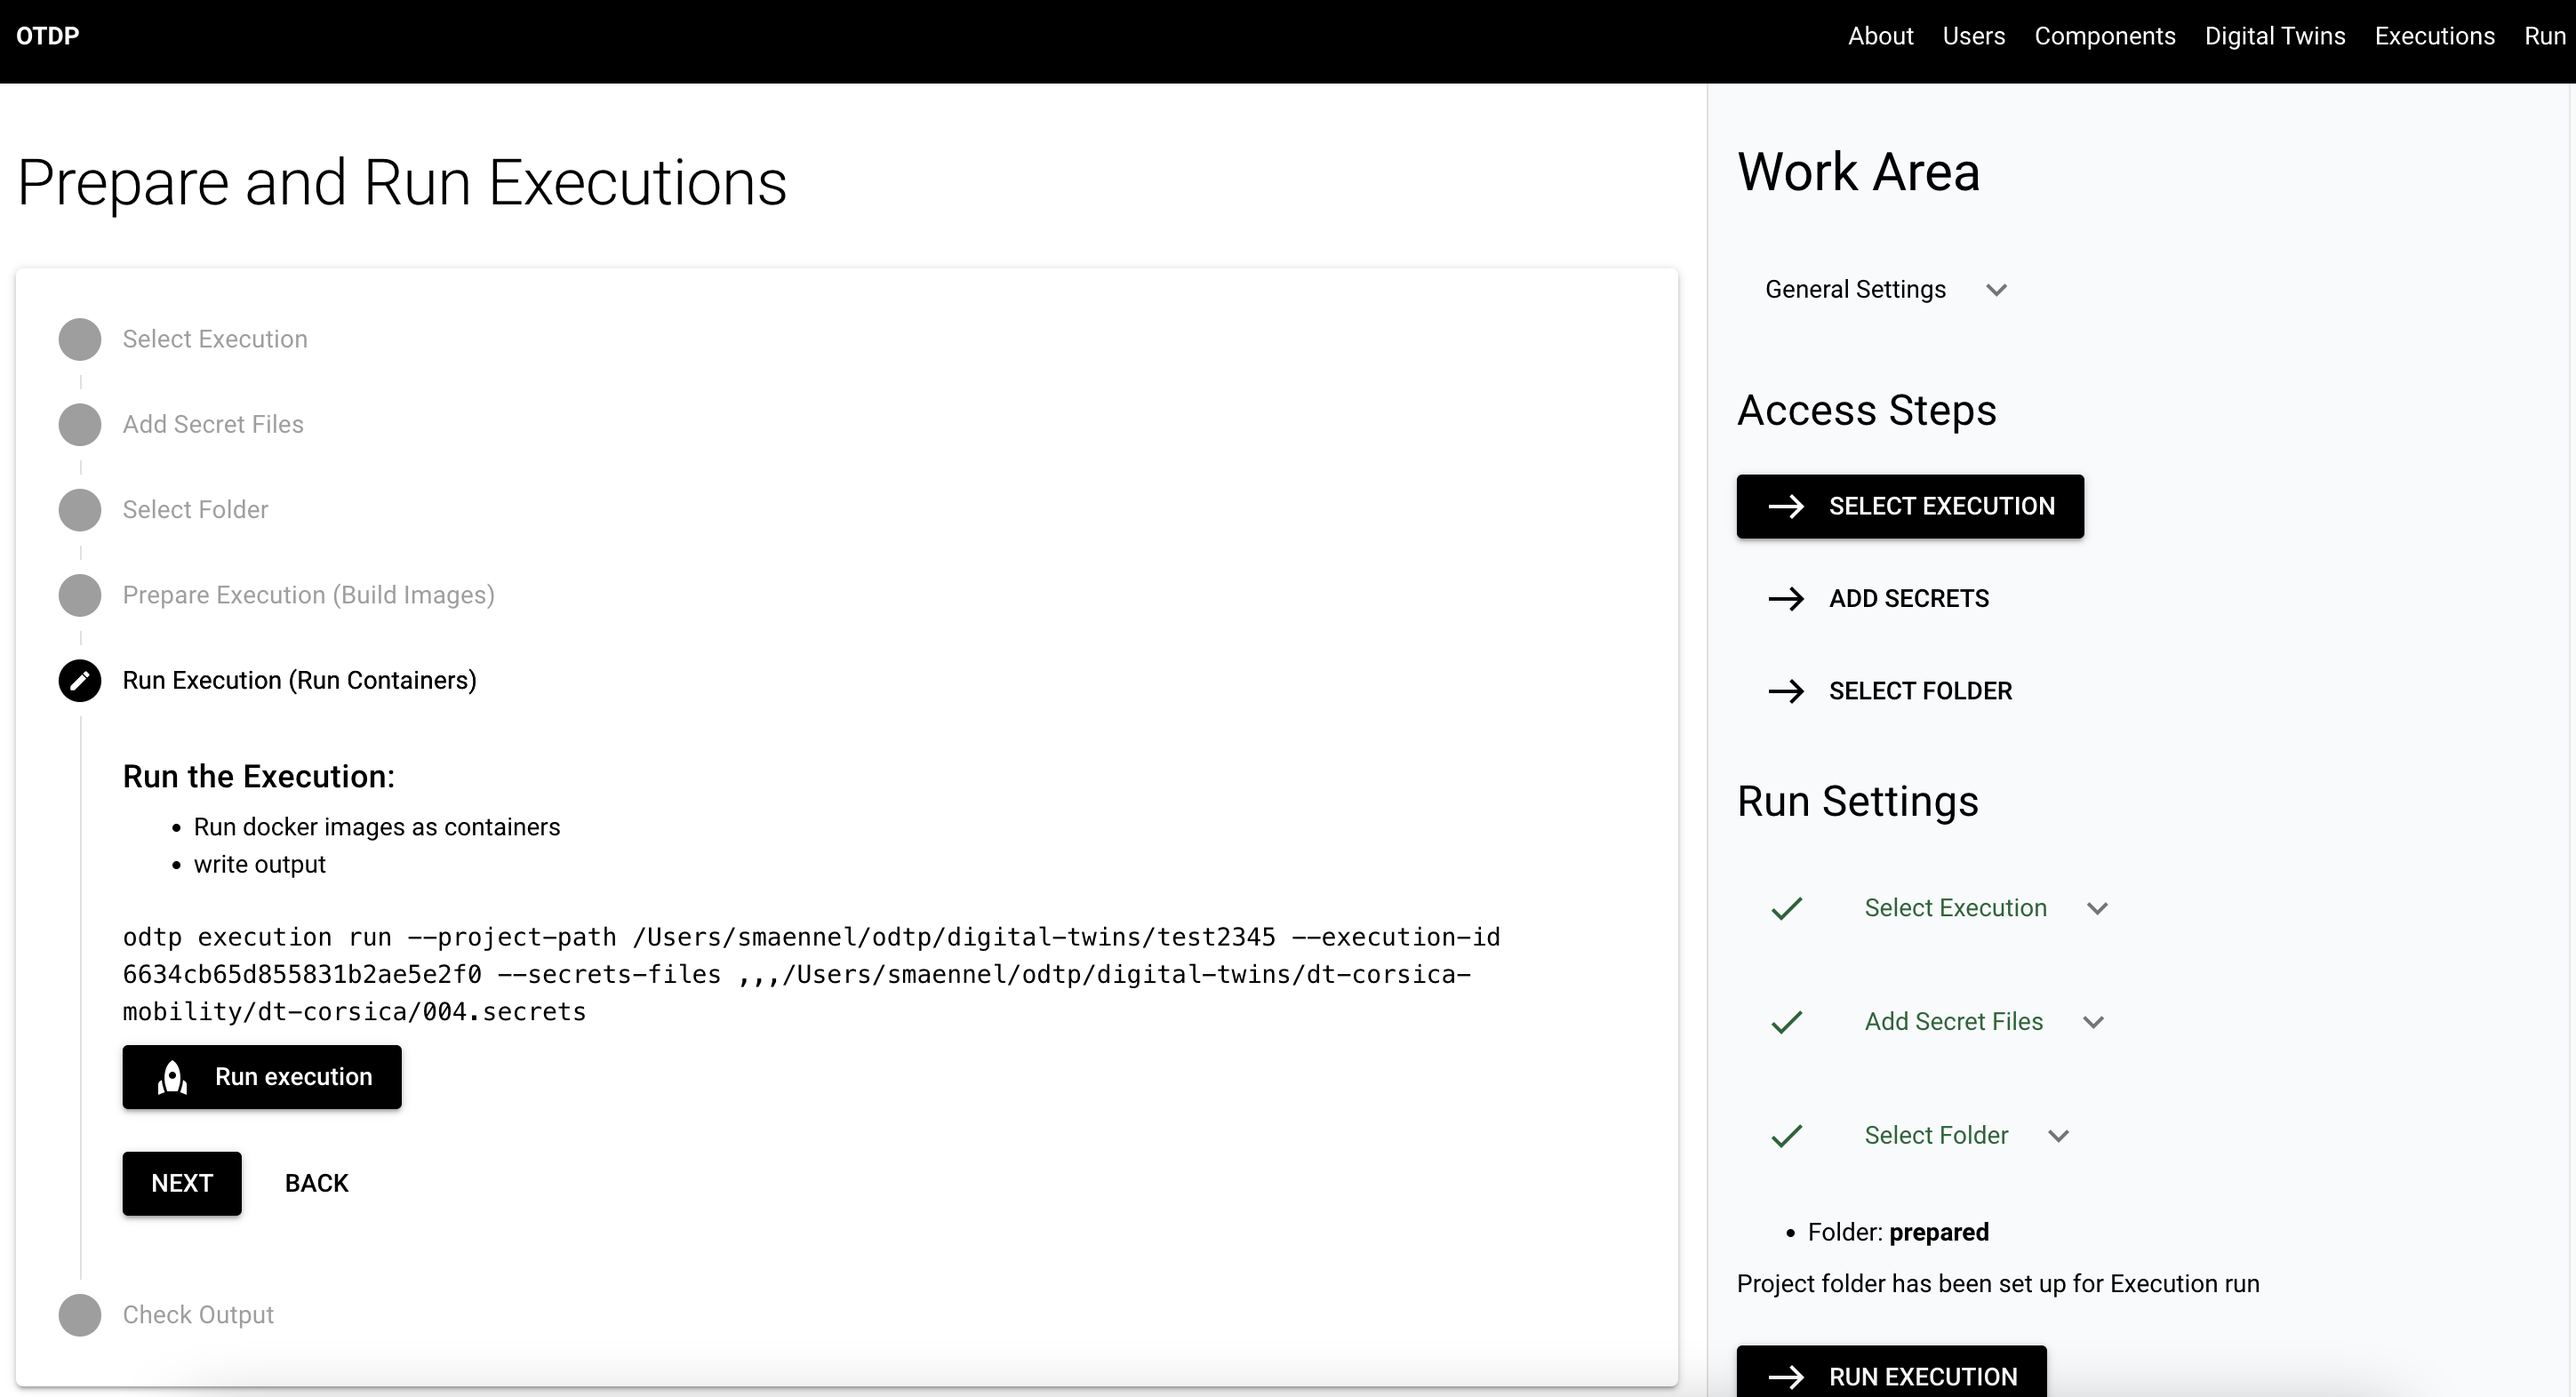
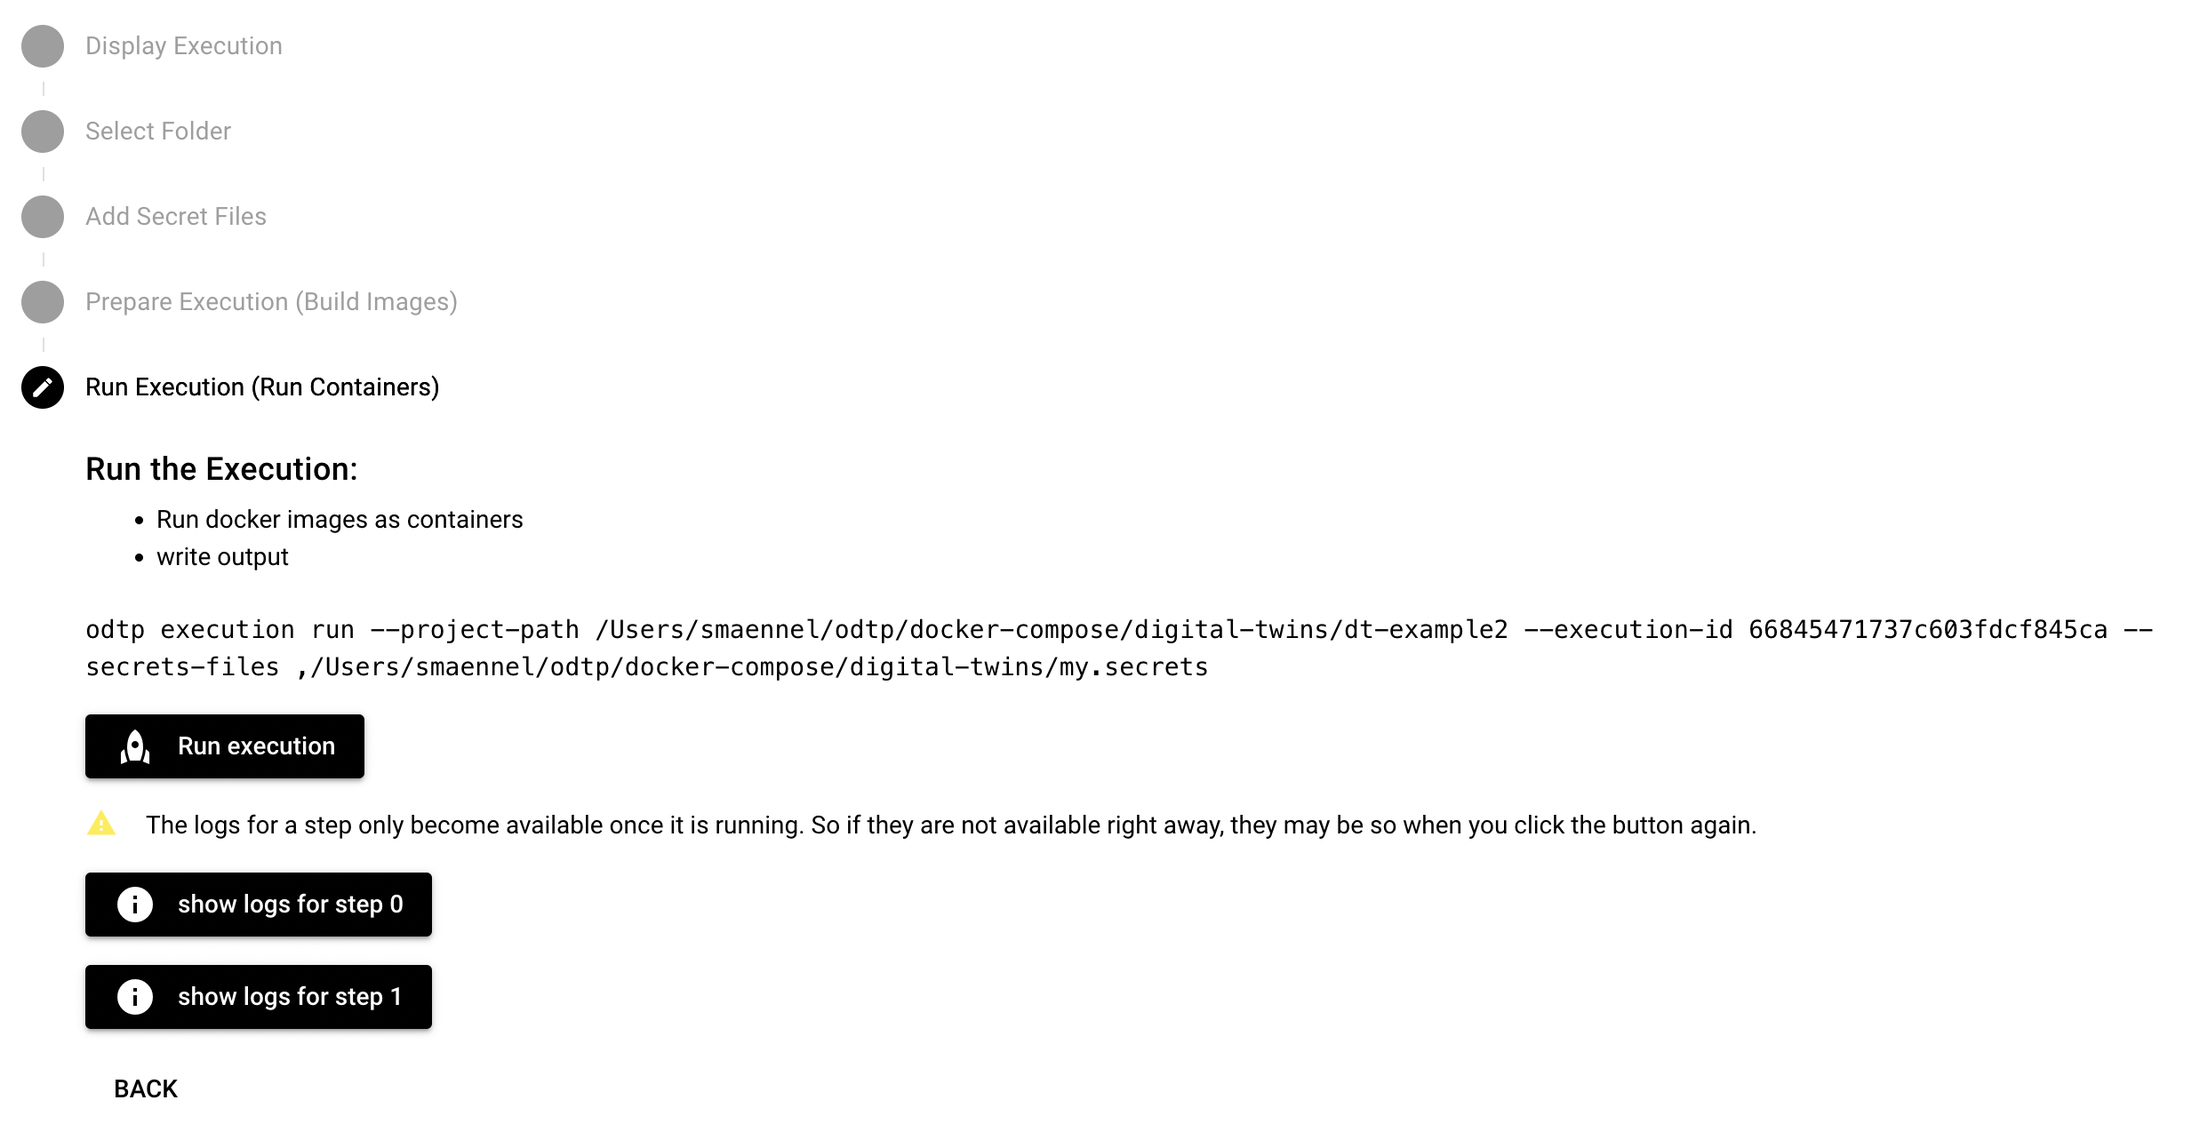
chore(tutorial): update tutorial on dashboard execution run change (#47)

diff --git a/docs/tutorials/run-executions.md b/docs/tutorials/run-executions.md
@@ -11,31 +11,58 @@
     component-example_0.1.0 --> travel_dashboard_0.2.1;
     ``` 
 
-## Run an execution
+## Explain the Execution Run
 
 To run an execution you need to go through the following steps:
 
-- Prepare for the execution
-- Run the execution
+### Prepare => Docker Build, Prepare File System
 
-### Prepare for the execution
+- in this step a folder structure will be established in an empty project folder on your local computer and the repository will be downloaded into it. Also folders for logs, input and output will be created
+- for all components it is checked whether docker images already exist, otherwise they will be build: As the settings are added only when the execution is run, images for components can be reused as long as the component version does not change. In case of a version change on the component all existing docker images for that component should be deleted. 
+     
 
-- in this step a folder structure will be established in an empty project folder on your local computer
-- the docker images for the components will be build
+### Run => Docker Run
+
+- the docker containers for the components will run in sequence as specified in the workflow
+- Only when the execution runs all parameters, secrets, volumes and port mapping are needed. Except for the secrets and the project folder they are taken from the execution as it is stored in the mongo db.
+
+## Run the execution in practice
+
+### Prepare the Execution CLI/GUI
 
 === "Dashboard GUI"
 
-    First you have to select the execution, then you may add secrets. You also need to setup a project folder that needs to be empty at the start.
+    As most arguments that are needed for the execution run are stored in the mongo db only the project folder and secrets if needed have to be added. The GUI takes you through the process step by step. You enter the execution run page with an execution that has already been selected. You first task is to check whether it has all parameters and ports setup correctly. For that the execution is displayed again on the run page: 
+    ![Dashboard Run execution](../static/tutorials/run-executions/prepare-and-run-execution.png){ width="800" }
 
-    ![Dashboard Run execution](../static/tutorials/run-executions/select-execution-to-run.png){ width="800" }
+    You can see that the project path has not been set yet: so in the first step you need to choose the project path by creating a new project folder:
 
-    ![Dashboard Run execution](../static/tutorials/run-executions/add-secrets.png){ width="800" } 
+    ![Dashboard Run execution](../static/tutorials/run-executions/create-project-folder.png){ width="800" } 
 
-    ![Dashboard Run execution](../static/tutorials/run-executions/choose-project-folder.png){ width="800" }
+    Don't worry: it will tell you in case the project folder already exists:
+
+    ![Dashboard Run execution](../static/tutorials/run-executions/validate-project-folder.png){ width="800" }
+
+    The next step is optional: only if your components needs secrets such as for example github credential, then you need to add the secrets as a file. This might be the case if your tool is in a private repository.
+
+    ![Dashboard Run execution](../static/tutorials/run-executions/select-secrets.png){ width="800" }
+
+    ![Dashboard Run execution](../static/tutorials/run-executions/secrets-selected.png){ width="800" }
+
+    Now you are ready to prepare your execution: 
+
+    ![Dashboard Run execution](../static/tutorials/run-executions/prepare-execution.png){ width="800" }
+
+    Once you click the button the log will open:
+
+    ![Dashboard Run execution](../static/tutorials/run-executions/prepare-execution-log.png){ width="800" }
+
+    There will be a success message at the end of the log file indicating that all docker images have been build. 
+    Then you will be able to click the "NEXT" button to proceed to the run step.
 
 === "Command Line CLI"
 
-    Prepare the execution. 
+    Prepare the execution. See the GUI section for a detailed information. 
 
     ``` sh
     odtp execution prepare \
@@ -63,13 +90,20 @@ To run an execution you need to go through the following steps:
     INFO (21/12/2023 03:24:36 PM): COMPONENTS DOWNLOADES AND BUILT (LineL 60 [workflow.py])
     ```
 
-### Run the execution   
+### Run the Execution CLI/GUI  
 
-In this step the docker container for the components will run and produce the actual output.
+In this step the docker container for the components will run and produce logs and output. For this step it is essential that all parameters and ports have been set correctly and also that secrets files have been selected, in case the secrets will be needed during the execution of the components.
 
 === "Dashboard GUI"
-    
+
+    Click on the button "RUN EXECUTION" to start a run. You will see a message indicating that the run started. After that click on the Log Button for the first step. The log will open and you can follow the execution run directly from the GUI. The messages that you will see are also stored on file in the logs directory `odtp-logs`, which is a subdirectory of the project folder: there is one logs directory for each component in your execution. The logs are also identical with what you would see in your docker container as long as it runs.
+
     ![Dashboard Run execution](../static/tutorials/run-executions/run-execution.png){ width="800" }
+    ![Dashboard Run execution](../static/tutorials/run-executions/run-execution-logs.png){ width="800" }
+
+    For ephemeral components will be a line at the end of each log, indicating that the component ended the run. 
+    For persistent components that line will not be there as they did not end but the docker container should remain
+    up until shut down manually by the user.
 
 === "Command Line CLI"
 
